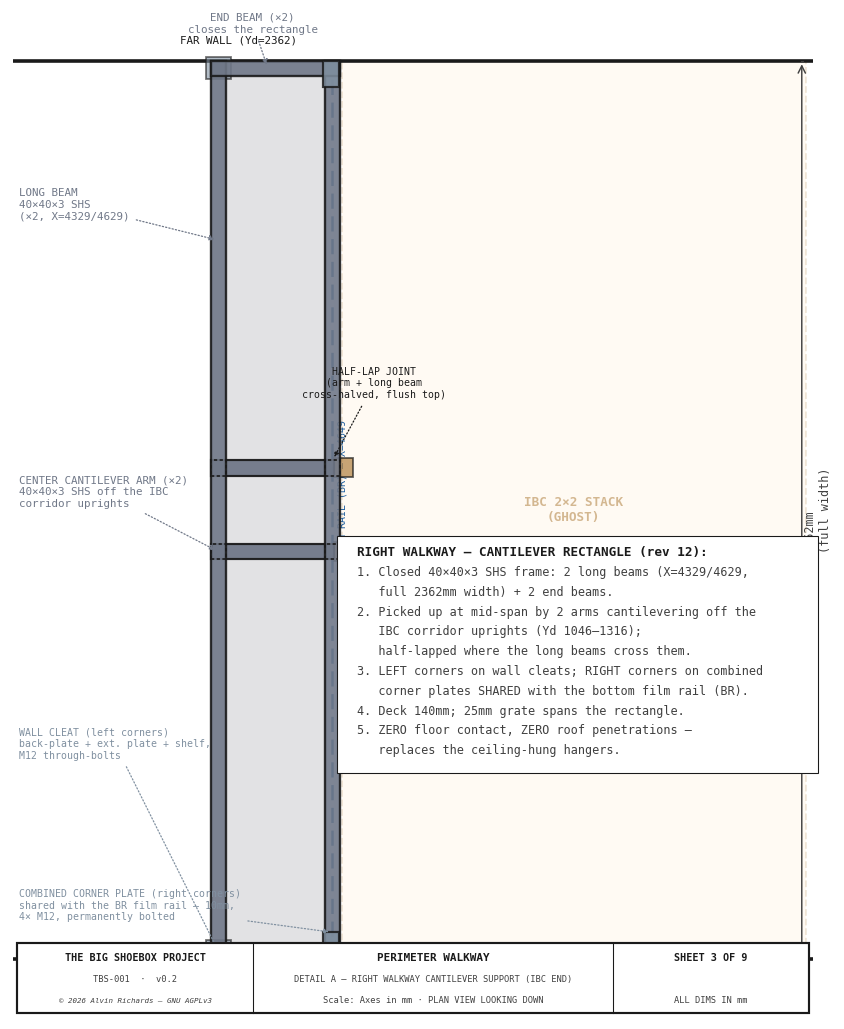
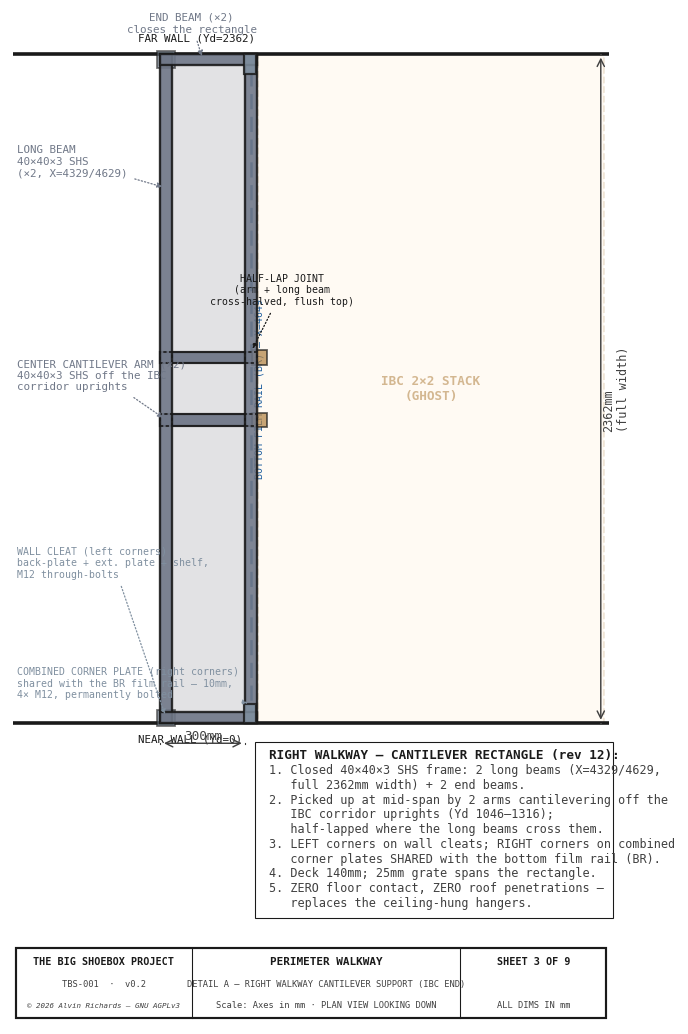
walkway-sheet3: drop the notes block below the plan (off the IBC ghost)
The CANTILEVER RECTANGLE notes were anchored at C_WID*0.46 — over the IBC 2x2
stack ghost, covering it and its label. Extend Y_LO -150 -> -1050 and move the
notes to y=-90 (below the near wall), so they sit in a bottom block clear of the
plan and above the title block. bbox_inches=tight crops the extra pad.

diff --git a/src/generators/generate_walkway_diagram.py b/src/generators/generate_walkway_diagram.py
@@ -1083,7 +1083,7 @@ def sheet3():
     # ── View window (X 4250 → IBC stack, Yd 0 → C_WID) ───────────────────────
     X_LO = WK_L_X - 520     # wide left gutter so the cleat/plate callouts clear the beam
     X_HI = IBC_COL_X + IBC_W + 20
-    Y_LO = -150
+    Y_LO = -1050            # extra room below the plan for the notes block (drops clear of the IBC ghost)
     Y_HI = C_WID + 120
 
     fig, ax = plt.subplots(figsize=(14, 10))
@@ -1197,7 +1197,7 @@ def sheet3():
         "5. ZERO floor contact, ZERO roof penetrations —",
         "   replaces the ceiling-hung hangers.",
     ]
-    draw_notes(ax, notes, (IBC_COL_X + 40), (C_WID * 0.46),
+    draw_notes(ax, notes, (IBC_COL_X + 40), (-90),
                spacing=(52), fs=6.5, width=(IBC_W - 60), font=FONT)
 
     # ── Title block ─────────────────────────────────────────────────────────
